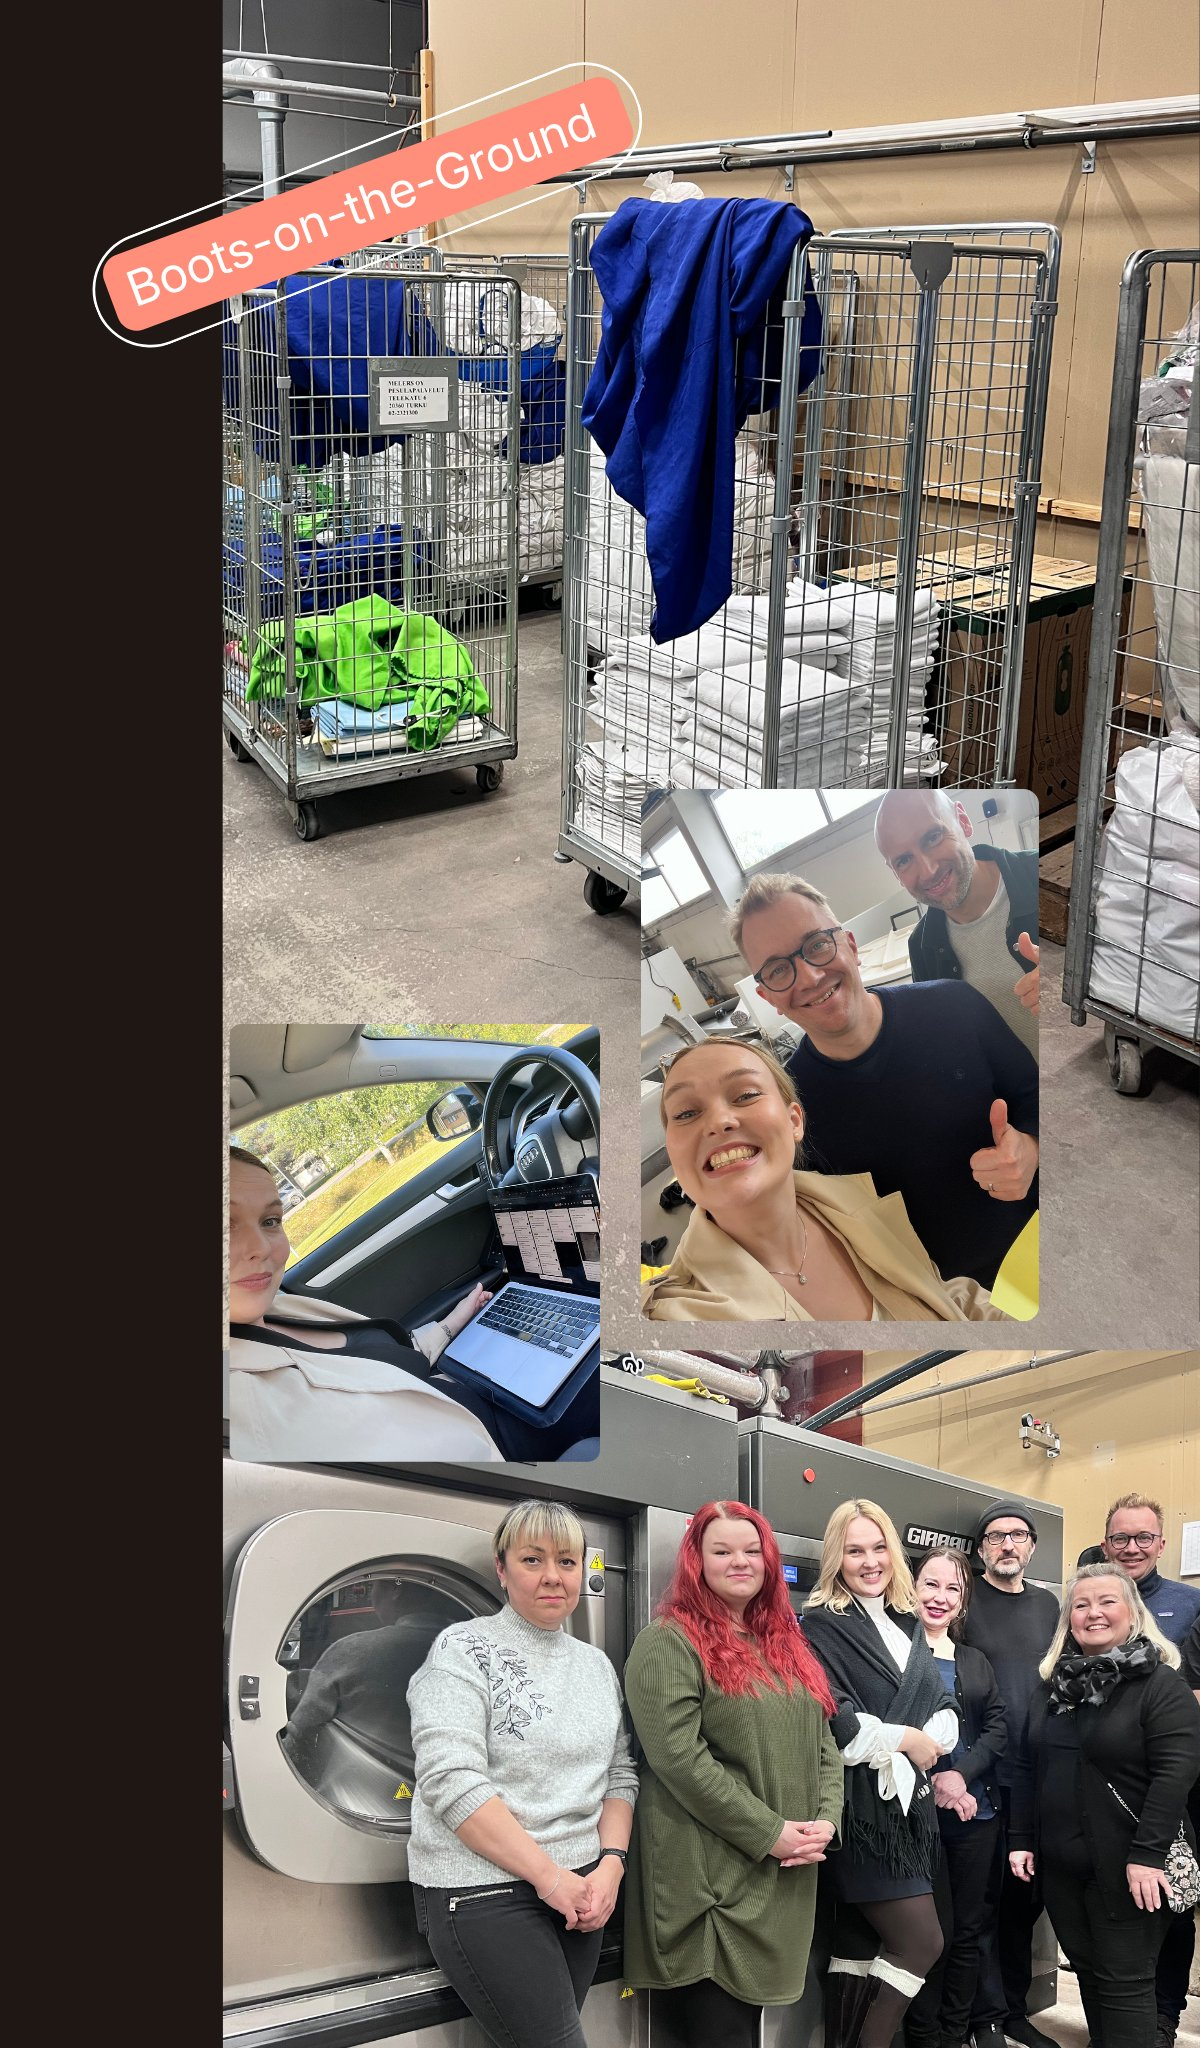
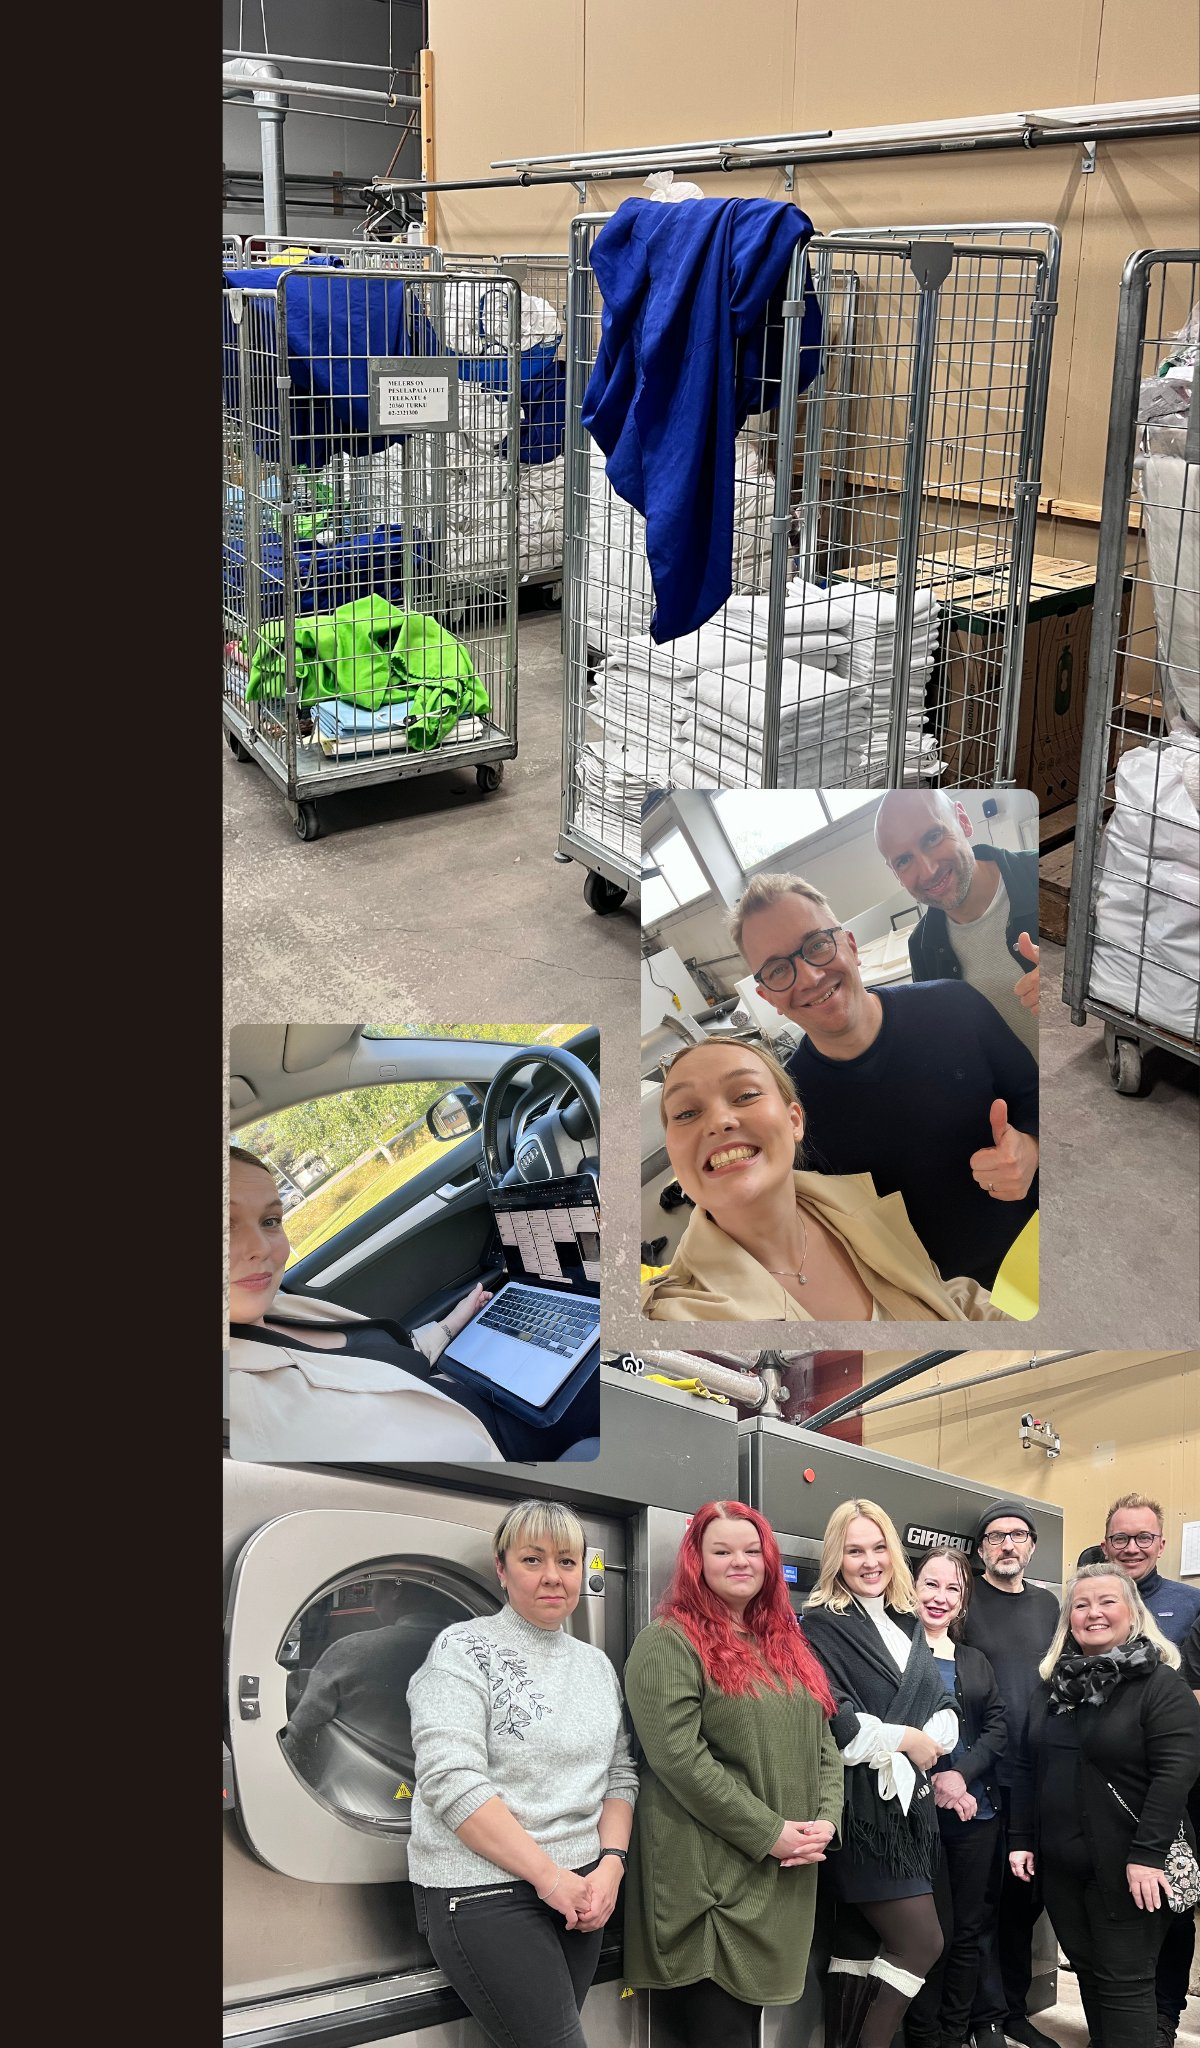
update: pitch — proof-of-concept collage, badge removed
Fourth revision (drops the "Boots-on-the-Ground" badge, keeps the
dark left panel). Bumped cache-bust to v=4.

Claude-Session: https://claude.ai/code/session_019fvsEEuEAoCpHf8XwisJiS

Changed region(s): [[0.0617, 0.0312, 0.5242, 0.1875]]

diff --git a/pitch/index.html b/pitch/index.html
@@ -1499,7 +1499,7 @@
 
     <!-- ── 9. CASE STUDY: MELERS OY (new) ── -->
     <section class="slide-photo-bleed" data-background-color="#000000">
-      <div class="bleed-photo"><img src="melers-team-collage.jpg?v=3" alt="Melers laundry facility with roll cages of linens, and the Askel team on-site"></div>
+      <div class="bleed-photo"><img src="melers-team-collage.jpg?v=4" alt="Melers laundry facility with roll cages of linens, and the Askel team on-site"></div>
       <div class="content-clear">
         <div class="act-label"><span class="act-num">II</span><span class="act-text">The Engine</span></div>
         <div class="label">Case Study</div>
